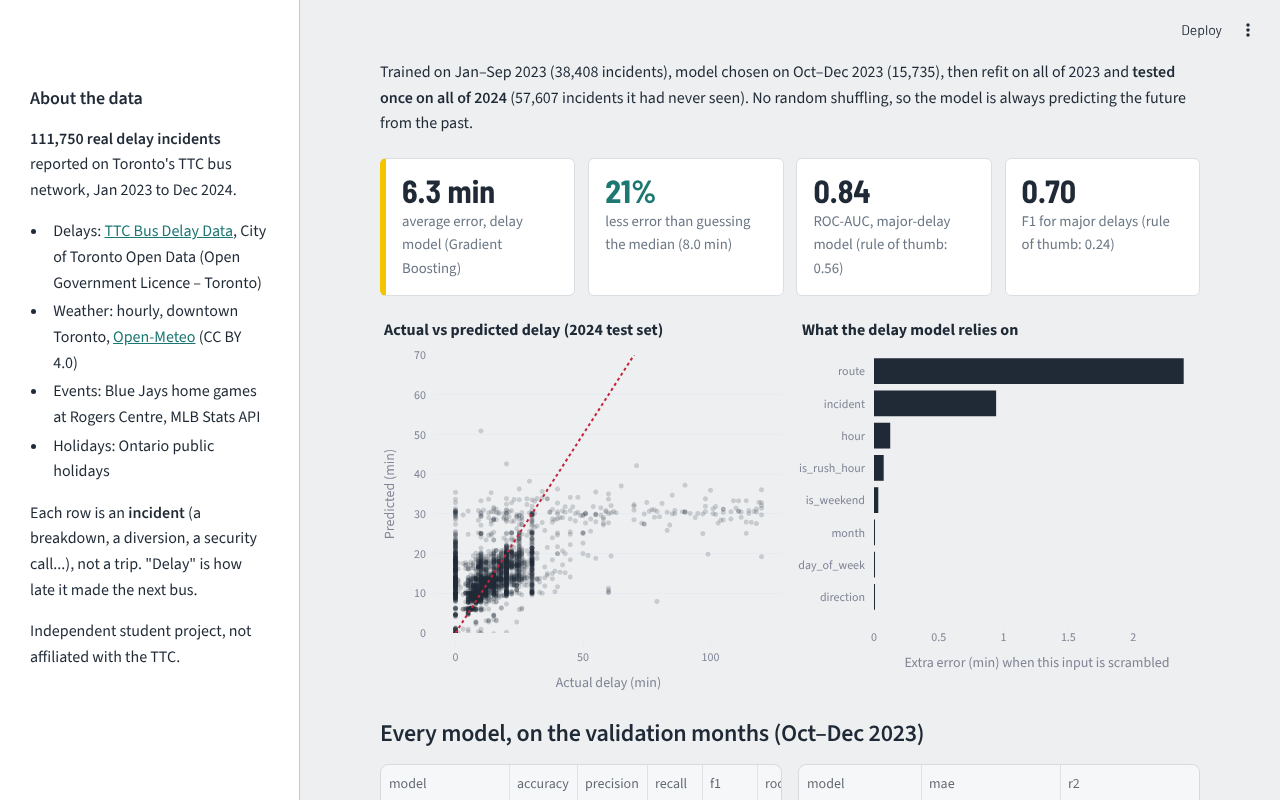
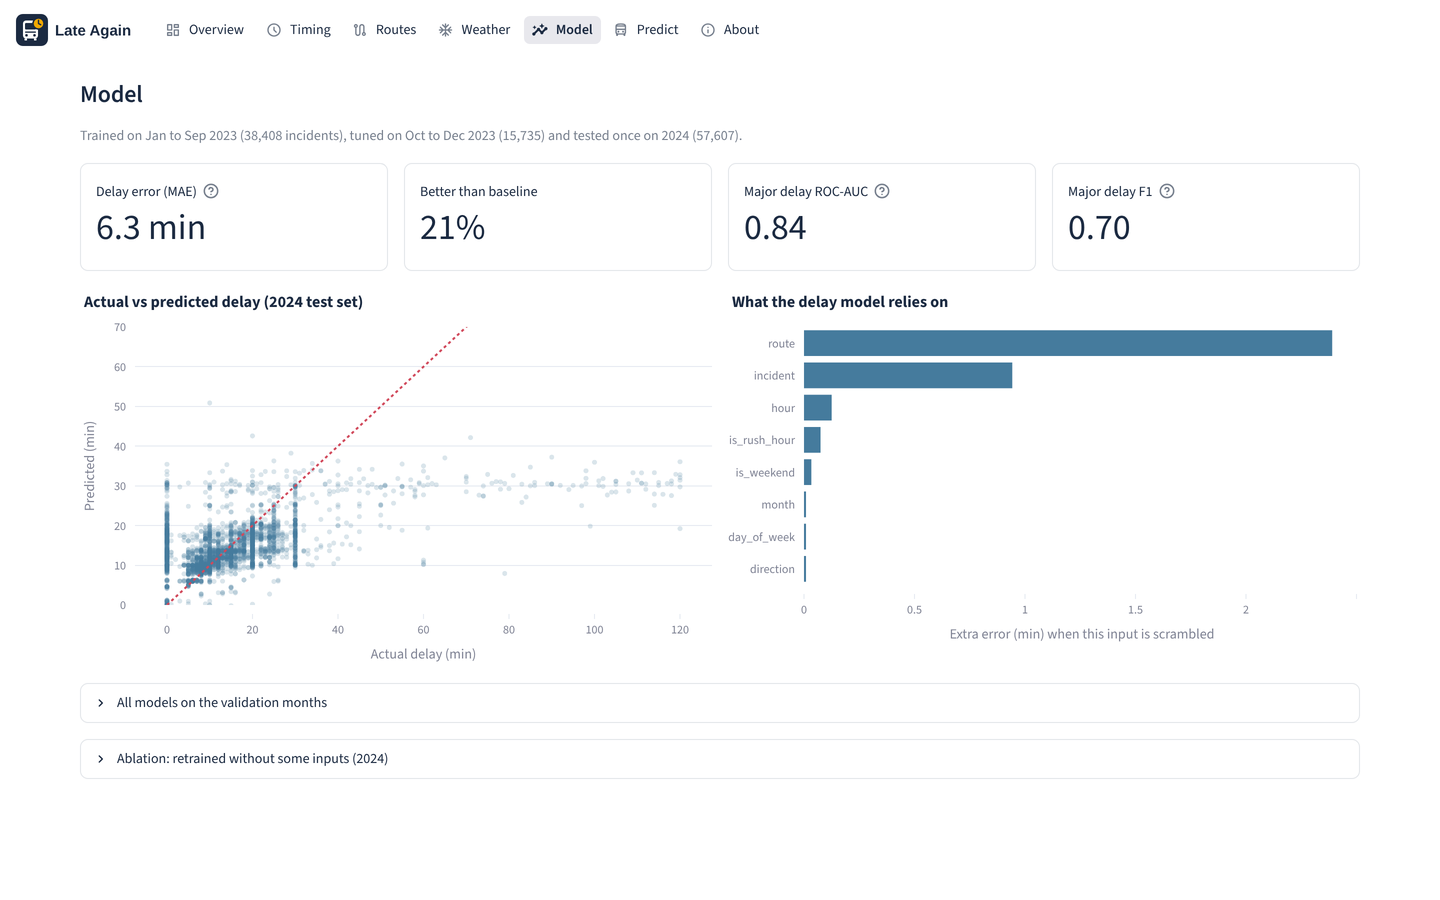
Rewrite README and case study, update screenshots

diff --git a/README.md b/README.md
@@ -1,158 +1,165 @@
-# Late Again 🚌
-### Public Transport Delays with Weather & Events
+<p align="center"><img src="assets/logo.svg" width="320" alt="Late Again"></p>
+
+<p align="center">
+Public transport delays in Toronto, with weather and events.<br>
+<a href="https://late-again.streamlit.app">Live app</a> |
+<a href="CASE_STUDY.md">Case study</a> |
+<a href="notebooks/eda.ipynb">Notebook</a>
+</p>
 
 [![CI](https://github.com/TrulyAchyuth/Late-Again/actions/workflows/ci.yml/badge.svg)](https://github.com/TrulyAchyuth/Late-Again/actions/workflows/ci.yml)
-**Live app: [late-again.streamlit.app](https://late-again.streamlit.app)**
 
-An end-to-end machine learning project on **real Toronto bus delay data**. It joins 111,750 TTC delay incidents (2023–2024) with hourly weather, baseball games and public holidays, asks what really makes delays worse, and predicts how late the next bus will be when an incident is reported.
+I take the bus a lot and wanted to know whether snow, games or the time of day actually make delays worse. This project uses the City of Toronto's open data on TTC bus delays (111,750 incidents in 2023 and 2024), adds hourly weather, Blue Jays home games and public holidays, and trains models that estimate how long a delay will be once an incident is reported.
 
 ![Demo](docs/demo.gif)
 
-## Results at a glance
+## Results
 
-All numbers are measured on **2024**, a full year the models never saw during training (`reports/metrics.json`).
+Everything below is measured on 2024, a year the models never saw while training.
 
-| | Result | Simple baseline |
+| | Result | Baseline |
 |---|---|---|
-| **Delay length** (Gradient Boosting) | **6.3 min** average error, **21% lower** than the baseline | 8.0 min (always guess the median) |
-| **Major delay, 15+ min** (Gradient Boosting) | **ROC-AUC 0.84**, F1 0.70 | ROC-AUC 0.56, F1 0.24 (rule of thumb by incident type) |
-| **Heavy snow** (analysis) | **2.2x** the usual number of incidents per hour | 1.0x = a normal hour at the same time of week |
+| Delay length | 6.3 min average error (21% lower) | 8.0 min, always guessing the median |
+| Major delay (15+ min) | ROC-AUC 0.84, F1 0.70 | ROC-AUC 0.56, F1 0.24, rule based on incident type |
+| Heavy snow | 2.2x the usual incidents per hour | 1.0x, a normal hour at the same time of week |
 
-Three findings from the data:
-1. **The route matters most.** Removing the route from the model raises its error from 6.3 to 7.6 minutes. Routes that run less often leave longer gaps when something goes wrong.
-2. **Weather changes how many incidents happen, not how long they last.** Heavy snowfall more than doubled incidents per hour, but retraining the delay model without any weather inputs did not change its error.
-3. **Late nights are the worst.** 50% of incidents between midnight and 5 am become major delays, against 32% in weekday rush hours.
+What I found:
+- The route matters most. Without it the delay error goes from 6.3 to 7.6 minutes.
+- Weather changes how many incidents happen, but not how long they last. Removing all weather inputs left the error the same.
+- Nights are worse than rush hour: 50% of incidents between midnight and 5 am become major delays, compared with 32% at rush hour.
 
----
+## Dashboard
 
-## 1. Data
+The app has seven pages: Overview, Timing, Routes, Weather, Model, Predict and About. On Predict you describe an incident, optionally pull the real Toronto weather for that hour, and see the expected delay, why the model thinks so, and how it changes with the hour, incident type or route.
 
-| Source | What it gives | Licence |
+| Overview | Weather | Predict |
 |---|---|---|
-| [TTC Bus Delay Data](https://open.toronto.ca/dataset/ttc-bus-delay-data/), City of Toronto Open Data | One row per delay incident: date, time, route, location, incident type, delay and gap in minutes, direction, vehicle | Open Government Licence – Toronto |
-| [Open-Meteo historical weather API](https://open-meteo.com/en/docs/historical-weather-api) | Hourly temperature, precipitation, rain, snowfall, snow depth, wind and gusts, weather code for downtown Toronto | CC BY 4.0 |
-| [MLB Stats API](https://statsapi.mlb.com) | Start times of the 162 Toronto Blue Jays home games at Rogers Centre in 2023–24 | Free public API (used for non-commercial research) |
-| [`holidays`](https://pypi.org/project/holidays/) Python package | Ontario public holidays | MIT |
+| ![Overview](docs/overview.png) | ![Weather](docs/weather.png) | ![Predict](docs/predict.png) |
 
-**Important: what a row means.** The TTC publishes *incidents*, not every trip. Buses that ran on time are not in the data. So the models answer *"an incident has just been reported; how late will the next bus be?"*, not *"will my bus be late?"*. Weather and event effects are measured on a complete table of every hour in 2023–24 (17,544 hours, including quiet hours with zero incidents).
+## Data
 
-### Field guide (processed incident table, `data/processed/incidents.csv.gz`)
+<img src="assets/pipeline.png" alt="Data sources joined into one table, then used for the models, the analysis and the dashboard" width="760">
 
-| Field | Meaning |
+| Source | What I used | Licence |
+|---|---|---|
+| [TTC Bus Delay Data](https://open.toronto.ca/dataset/ttc-bus-delay-data/) (City of Toronto) | one row per incident: date, time, route, location, incident type, delay, gap, direction | Open Government Licence, Toronto |
+| [Open-Meteo](https://open-meteo.com/en/docs/historical-weather-api) | hourly weather for downtown Toronto | CC BY 4.0 |
+| [MLB Stats API](https://statsapi.mlb.com) | start times of the 162 Blue Jays home games | free public API, non-commercial use |
+| [`holidays`](https://pypi.org/project/holidays/) | Ontario public holidays | MIT |
+
+One thing to know: the TTC data lists incidents, not trips. Buses that were on time aren't in it. So the model answers "an incident was just reported, how late will the next bus be?", not "will my bus be late?". For weather and events I built a second table with every hour of 2023 and 2024 (17,544 hours, including hours with no incidents).
+
+Cleaning (`src/build_dataset.py`): out of 115,850 raw rows I dropped 1,192 with no readable time, incident or route, 557 duplicates, and 2,351 delays over 120 minutes (mostly long diversions and typos). That leaves 111,750 incidents (96.5%), all matched to a weather hour.
+
+<details>
+<summary>Column guide for <code>data/processed/incidents.csv.gz</code></summary>
+
+| Column | Meaning |
 |---|---|
-| `timestamp` | When the incident happened (local Toronto time) |
-| `route`, `direction` | Bus route number; direction N/S/E/W/B (both), or Unknown when not recorded |
-| `location`, `at_station` | Where it happened; 1 if at a station |
-| `incident` | TTC's incident category, e.g. Mechanical, Diversion, Security |
-| `delay_min` | **Target.** Minutes the next bus was delayed |
-| `gap_min` | Minutes between buses after the incident (an *outcome*, so never used as a model input) |
-| `major_delay` | **Target.** 1 if `delay_min` ≥ 15 |
-| `hour`, `month`, `day_of_week`, `is_weekend`, `is_holiday`, `is_rush_hour` | Calendar features (rush hour = hours starting 7, 8 or 9 am and 4, 5 or 6 pm on working days) |
-| `temperature_c`, `precipitation_mm`, `rain_mm`, `snowfall_cm`, `snow_depth_cm`, `wind_kmh`, `gust_kmh`, `weather` | Weather in that hour |
-| `jays_game_window` | 1 if between 1 hour before and 4 hours after the start of a Blue Jays home game |
+| `timestamp` | when the incident happened (Toronto time) |
+| `route`, `direction` | route number; N/S/E/W/B, or Unknown |
+| `location`, `at_station` | where it happened; 1 if at a station |
+| `incident` | TTC incident category, e.g. Mechanical, Diversion, Security |
+| `delay_min` | target: minutes the next bus was delayed |
+| `gap_min` | minutes between buses afterwards (an outcome, so not used as an input) |
+| `major_delay` | target: 1 if `delay_min` is 15 or more |
+| `hour`, `month`, `day_of_week`, `is_weekend`, `is_holiday`, `is_rush_hour` | calendar features (rush hour = 7-10 am and 4-7 pm on working days) |
+| `temperature_c`, `precipitation_mm`, `rain_mm`, `snowfall_cm`, `snow_depth_cm`, `wind_kmh`, `gust_kmh`, `weather` | weather in that hour |
+| `jays_game_window` | 1 from an hour before to 4 hours after a Blue Jays home game starts |
+</details>
 
-### Cleaning (`src/build_dataset.py`)
-From 115,850 raw incidents: 1,192 rows with no readable time, incident or route were dropped; 557 exact duplicate reports were dropped; 2,351 delays over 120 minutes (mostly long diversions and typing errors, about 2%) were removed as outliers. **111,750 incidents (96.5%) were kept**, and every one matched a weather hour.
+## Method
 
-## 2. Method
+- Time-based split with no shuffling: train on Jan to Sep 2023, pick the model on Oct to Dec 2023, refit on all of 2023 and test once on 2024.
+- Models: logistic/linear regression, decision tree, random forest and gradient boosting (`HistGradientBoosting`). The delay model uses absolute error because delays are very skewed.
+- Baselines: the median delay, the median for each incident type, and always predicting "not major".
+- Ablation: retrain the final models without weather, events, route or incident type to see what each adds.
+- Weather and events: compare each group of hours with a normal hour at the same year, weekday and hour, with a 90% bootstrap range.
 
-- **Time-based split, no shuffling.** Train on Jan–Sep 2023, pick the best model on Oct–Dec 2023, refit on all of 2023, then test **once** on all of 2024. A random split would let the model peek at the future.
-- **Models compared:** Logistic/Linear Regression, Decision Tree, Random Forest, Gradient Boosting (scikit-learn `HistGradientBoosting`). The delay model minimises absolute error because delays are heavily skewed.
-- **Baselines:** always guess the median delay; the median for that incident type; always predict "not major".
-- **Ablation:** the winning models are retrained without the weather inputs, the event inputs, the route and the incident type, to measure what each really adds.
-- **Weather/event analysis:** each group of hours is compared with a normal hour at the same year, weekday and hour, with a 90% bootstrap range (`src/analysis.py`).
+Validation (Oct to Dec 2023):
 
-Validation scores for every model (Oct–Dec 2023):
-
-| Model | Major delay ROC-AUC | Major delay F1 | Delay MAE (min) |
+| Model | ROC-AUC | F1 | MAE (min) |
 |---|---|---|---|
 | Logistic / Linear Regression | 0.841 | 0.711 | 6.15 |
 | Decision Tree | 0.655 | 0.490 | 7.06 |
 | Random Forest | 0.813 | 0.538 | 6.70 |
-| **Gradient Boosting** | **0.866** | **0.718** | **5.58** |
+| Gradient Boosting | 0.866 | 0.718 | 5.58 |
 
-Ablation on 2024 (lower MAE / higher ROC-AUC is better):
+Ablation (2024 test):
 
-| Retrained without | ROC-AUC | MAE (min) |
+| Removed | ROC-AUC | MAE (min) |
 |---|---|---|
-| nothing (final model) | 0.839 | 6.29 |
-| weather inputs | 0.842 | 6.29 |
-| event inputs | 0.839 | 6.29 |
+| nothing | 0.839 | 6.29 |
+| weather | 0.842 | 6.29 |
+| events | 0.839 | 6.29 |
 | incident type | 0.826 | 6.43 |
 | route | 0.602 | 7.64 |
 
-## 3. The dashboard
+## Running it
 
-`streamlit run app.py` opens six tabs: **Overview**, **When it happens** (weekday × hour heatmaps), **Routes & causes**, **Weather & events** (snow, rain, games, holidays vs a normal hour), **How good is the model** (test scores, baselines, actual vs predicted, feature importance, ablation) and **Predict an incident**. The prediction tab can pull real Toronto weather for any date from Open-Meteo, explains each prediction with Shapley values over five input groups, and shows what-if and route comparisons.
-
-| Overview | Weather & events | Prediction |
-|---|---|---|
-| ![Overview](docs/overview.png) | ![Weather](docs/weather.png) | ![Prediction](docs/predict.png) |
-
-## 4. Run it
-
-Python 3.13 is recommended (the versions in `requirements.txt` are pinned and tested with it).
+Tested with Python 3.13.
 
 ```bash
 git clone https://github.com/TrulyAchyuth/Late-Again.git
 cd Late-Again
-python -m venv .venv && source .venv/bin/activate      # Windows: .venv\Scripts\activate
+python -m venv .venv && source .venv/bin/activate   # Windows: .venv\Scripts\activate
 pip install -r requirements.txt
-streamlit run app.py                                   # opens http://localhost:8501
+streamlit run app.py
 ```
 
-The processed data and trained models are in the repo, so the app starts straight away. To rebuild everything from the original sources:
+The cleaned data and trained models are in the repo, so the app works straight away. To rebuild from the original sources:
 
 ```bash
-python run_pipeline.py             # download (about 8 MB) -> clean -> train   (about 2 minutes)
-python run_pipeline.py --offline   # retrain from the processed data already in the repo
+python run_pipeline.py             # download (about 8 MB), clean, train: about 2 minutes
+python run_pipeline.py --offline   # only retrain, using data/processed/
 ```
 
-**Docker:**
+With Docker:
+
 ```bash
 docker build -t late-again .
 docker run -p 8501:8501 late-again
 ```
 
-**Tests and notebook:**
+Tests and notebook:
+
 ```bash
 pip install -r requirements-dev.txt
-python -m pytest                       # 14 tests: features, cleaning, analysis, models, app start-up
-jupyter notebook notebooks/eda.ipynb   # step-by-step EDA (saved with outputs)
+python -m pytest
+jupyter notebook notebooks/eda.ipynb
 ```
 
-GitHub Actions runs the tests on every push, retrains the models from the committed data and fails if the scores drop below the baseline.
+GitHub Actions runs the tests on every push, retrains the models and fails if they stop beating the baseline.
 
-## 5. Project structure
+## Project layout
 
 ```
-app.py                    Streamlit dashboard
-assets/style.css          dashboard styles
-run_pipeline.py           runs download -> build -> train
+app.py                  Streamlit dashboard
+run_pipeline.py         download -> build -> train
 src/
-  config.py               paths, data sources, settings, feature lists
-  download_data.py        downloads TTC, Open-Meteo and MLB data
-  features.py             small feature helpers (unit-tested)
-  build_dataset.py        cleaning and joining -> data/processed/
-  analysis.py             "compared with a normal hour" weather/event analysis
-  train.py                time-based split, baselines, models, ablation
-  predict_tools.py        prediction, Shapley explanation, what-if
-  live_weather.py         live Toronto weather for the prediction form
-  plots.py                Plotly charts and colours
-notebooks/eda.ipynb       exploratory analysis
-tests/                    pytest unit and smoke tests
-docs/                     screenshots, demo GIF
-CASE_STUDY.md             short write-up of the project
-Dockerfile, .github/workflows/ci.yml
+  config.py             paths, sources, settings
+  download_data.py      gets the TTC, Open-Meteo and MLB data
+  features.py           feature helpers
+  build_dataset.py      cleaning and joining
+  analysis.py           weather and event comparisons
+  train.py              split, baselines, models, ablation
+  predict_tools.py      prediction, explanation, what-if
+  live_weather.py       weather lookup for the Predict page
+  plots.py              Plotly charts
+  make_figures.py       static charts for the docs
+assets/                 logo and diagram
+notebooks/eda.ipynb     exploratory analysis
+tests/                  pytest tests
+docs/                   screenshots, GIF, figures
 ```
 
-## 6. Limitations
+## Limitations
 
-- **Incidents, not trips.** On-time buses are not recorded, so the models cannot say how likely *a given trip* is to be late.
-- **Weather is for downtown Toronto only**, hourly. Local conditions across the city can differ.
-- **Events are only Blue Jays home games.** No free, clean source was found for concerts, Raptors/Leafs games or festivals over 2023–24.
-- **Route and incident type dominate.** The model explains about 28% of the variation in delay length (R² 0.28 on 2024); a lot depends on things not in the data, such as how quickly a replacement bus is found.
-- **Data quality.** Delays are typed by hand and often rounded (10, 20, 30 min); delays over 120 minutes were removed.
-- The data ends in December 2024. TTC changed its file format in 2025 (incident codes instead of categories), so newer data would need its own mapping.
+- On-time buses aren't recorded, so I can't predict whether a particular trip will be late.
+- Weather comes from one point downtown.
+- Events are only Blue Jays home games. I couldn't find a clean free source for concerts or other sports for 2023-24.
+- The delay model explains about 28% of the variation (R² 0.28). A lot depends on things not in the data, like how fast a spare bus is found.
+- Delays are typed in by hand and often rounded to 10, 20 or 30 minutes.
+- The data stops at the end of 2024. The 2025 files use incident codes instead of categories, so they'd need a mapping first.
 
-*Independent student project. Not affiliated with or endorsed by the TTC or the City of Toronto.*
+Student project, not affiliated with the TTC or the City of Toronto.

diff --git a/CASE_STUDY.md b/CASE_STUDY.md
@@ -1,39 +1,55 @@
-# Case study: what really makes Toronto's buses late?
+# Case study: what makes Toronto's buses late?
 
-## The question
-Commuters blame the snow, the crowds and the time of day. I wanted to check those claims against real data, and to build a tool that estimates how long a bus delay will last the moment an incident is reported.
+## Why I did this
 
-## The data
-The City of Toronto publishes every TTC bus delay incident: 115,850 of them in 2023–2024, each with a time, route, location, incident type and the delay it caused to the next bus. I joined these with hourly weather for downtown Toronto (Open-Meteo), the start times of all 162 Blue Jays home games (MLB Stats API) and Ontario public holidays.
+Everyone blames the snow, the Jays crowds or rush hour when the bus is late. I wanted to check that against real data, and build something that estimates how long a delay will last as soon as an incident is reported.
 
-After cleaning (unreadable times, duplicate reports, and delays over 2 hours, which were mostly long diversions and typing errors), 111,750 incidents (96.5%) were left.
+## Data
 
-The first thing I had to get right was what a row means. The data lists **incidents**, not trips, so on-time buses never appear. That ruled out the naive question "will my bus be late?" and shaped two honest ones:
-1. Given an incident, how late will the next bus be, and is it a major (15+ minute) delay?
-2. Does weather or an event change **how many** incidents happen? For this I built a table of all 17,544 hours in the two years, including quiet ones.
+The City of Toronto publishes every TTC bus delay incident. There were 115,850 in 2023 and 2024, each with a time, route, location, incident type and how late it made the next bus. I joined them with hourly weather for downtown Toronto (Open-Meteo), the start times of all 162 Blue Jays home games (MLB Stats API) and Ontario holidays.
+
+After removing rows with no readable time, duplicate reports and delays over 2 hours (mostly long diversions and typos), 111,750 incidents (96.5%) were left.
+
+The biggest thing I had to figure out early was what a row actually is. It's an incident, not a trip, so on-time buses never show up. That meant I couldn't answer "will my bus be late?". I split it into two questions instead:
+
+1. Given an incident, how late will the next bus be, and will it be a major (15+ minute) delay?
+2. Do weather or events change how many incidents happen? For this I made a table of all 17,544 hours in the two years, including quiet ones.
 
 ## Approach
-- **No peeking at the future.** I trained on January–September 2023, chose the model on October–December 2023, and tested once on all of 2024.
-- **Baselines first.** Every model had to beat a "guess the median" rule and an "average for this incident type" rule.
-- **Fair comparisons for weather.** A snowy 8 am Monday was compared with an ordinary 8 am Monday (same year, weekday and hour), not with the yearly average, with a bootstrap range to show uncertainty.
-- **Ablation.** I retrained the final models without the weather, event, route and incident-type inputs to see what each one really adds.
 
-## Results (2024 test year)
-- The delay model (Gradient Boosting) is off by **6.3 minutes** on average, **21% better** than guessing the median (8.0 minutes).
-- The major-delay model reaches **ROC-AUC 0.84** and F1 0.70, against 0.56 and 0.24 for a rule of thumb based on incident type.
-- **Heavy snowfall** (over 1.5 cm per hour) came with **2.2x** the normal number of incidents; moderate rain about 1.2x.
-- **Blue Jays games made no measurable difference.** Holidays had about 40% fewer incidents.
+- I trained on January to September 2023, chose the model on October to December 2023, and tested once on all of 2024, so the model never sees the future.
+- Every model had to beat simple baselines: the median delay, and the median for each incident type.
+- For weather I compared, for example, a snowy 8 am Monday with a normal 8 am Monday (same year, weekday and hour), not with the yearly average.
+- I retrained the final models without weather, events, route and incident type to see how much each one helps.
+
+## Results (2024)
+
+- The delay model (gradient boosting) is off by 6.3 minutes on average, 21% better than guessing the median (8.0 minutes).
+- The major-delay model gets ROC-AUC 0.84 and F1 0.70, against 0.56 and 0.24 for the incident-type rule.
+- Heavy snowfall (over 1.5 cm an hour) came with 2.2x the usual number of incidents. Moderate rain was about 1.2x.
+- Blue Jays games made no measurable difference. Holidays had about 40% fewer incidents.
+
+![Incidents per hour by snowfall](docs/figures/snow.png)
 
 ## What surprised me
-- **Weather does not make delays longer.** Removing every weather input left the delay model's error unchanged (6.29 min). Snow causes *more* incidents, but each one takes about as long to clear.
-- **The route is the strongest input** (removing it raised the error to 7.6 minutes). Routes with less frequent service leave a longer gap when a bus drops out.
-- **Night is worse than rush hour.** Rush hours have the most incidents, but 50% of night-time incidents become major delays, against 32% at rush hour.
+
+Weather doesn't make delays longer. Taking every weather input out of the delay model left its error at 6.29 minutes. Snow causes more incidents, but each one takes about as long to clear.
+
+The route is the most useful input. Without it the error goes up to 7.6 minutes. Routes that run less often leave a longer gap when a bus drops out.
+
+![Delay model error when inputs are removed](docs/figures/ablation.png)
+
+Nights are worse than rush hour. Rush hour has the most incidents, but 50% of night incidents (midnight to 5 am) become major delays, against 32% at rush hour.
+
+![Share of incidents that become major delays by hour](docs/figures/night.png)
 
 ## Limitations and next steps
-- The model explains only part of the variation (R² 0.28). Missing pieces include spare-bus availability and live traffic.
-- Events cover only baseball games; adding concerts and other sports would need a reliable historical source.
-- The TTC's 2025 data uses incident codes instead of categories. Mapping them would extend the test to a third year.
-- A natural extension is predicting incident *counts* per route and hour from weather forecasts, to help plan spare buses on snowy days.
+
+- The model only explains part of the variation (R² 0.28). Things like spare bus availability and live traffic aren't in the data.
+- Events only cover baseball. Adding concerts and other sports would need a reliable historical source.
+- The 2025 TTC data uses incident codes instead of categories. Mapping them would give a third year to test on.
+- Next I'd like to predict incident counts per route and hour from the weather forecast, which could help plan spare buses on snowy days.
 
 ## Tools
-Python, pandas, scikit-learn, Plotly, Streamlit, pytest, GitHub Actions, Docker. Live demo: [late-again.streamlit.app](https://late-again.streamlit.app).
+
+Python, pandas, scikit-learn, Plotly, Streamlit, pytest, GitHub Actions and Docker. The app is live at [late-again.streamlit.app](https://late-again.streamlit.app).
